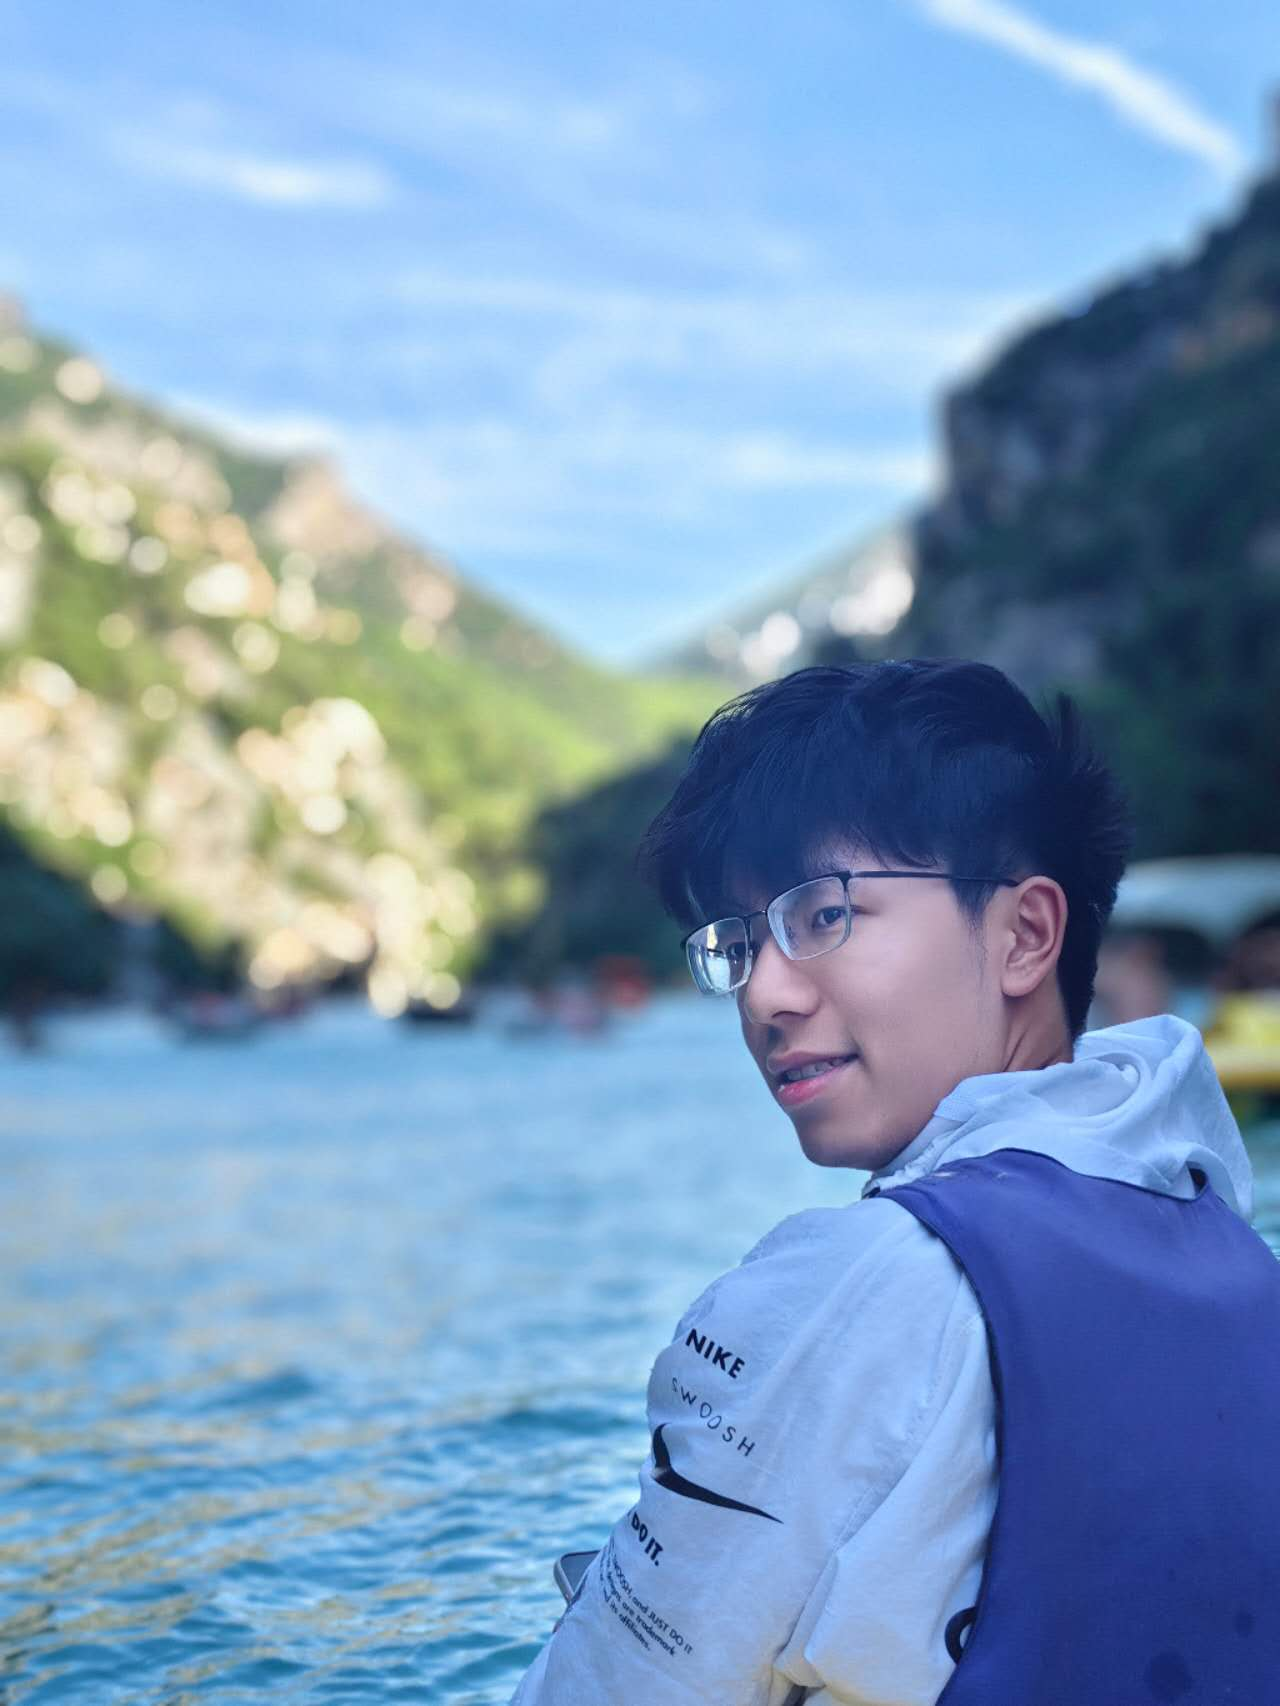
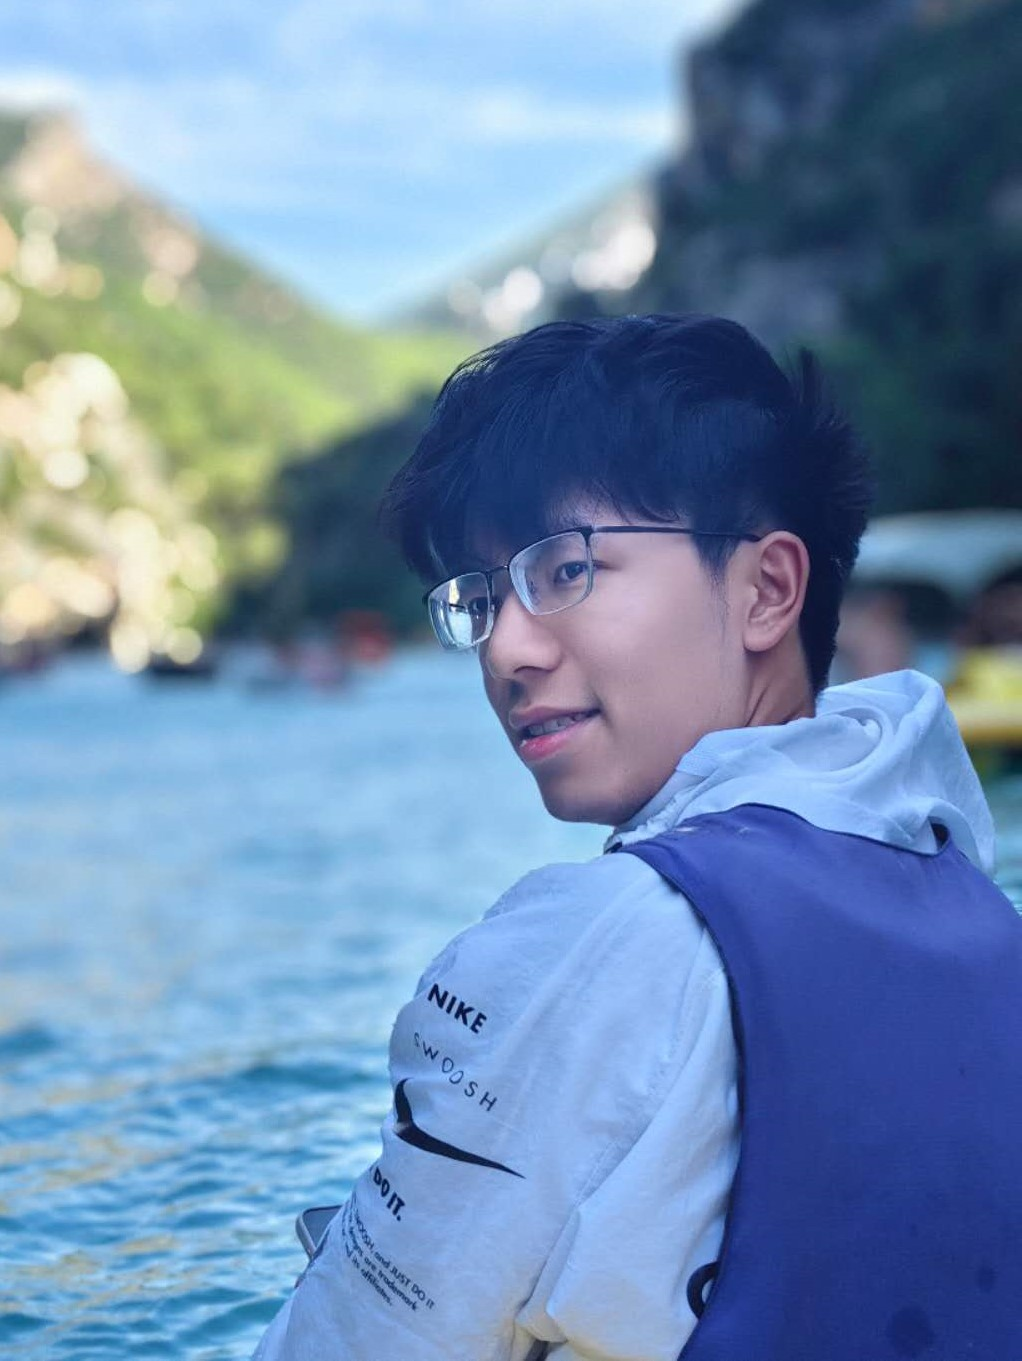
照片大小

diff --git a/style.css b/style.css
@@ -45,16 +45,24 @@ body {
   min-width: 0;
 }
 
-.portrait {
-  width: 96px;
-  height: 128px;
+.portrait-frame {
+  width: 148px;
+  height: 197px;
   flex-shrink: 0;
   align-self: center;
-  object-fit: cover;
-  object-position: center 28%;
+  margin-left: 56px;
+  overflow: hidden;
   border: 1px solid var(--border);
   border-radius: 12px;
   box-shadow: 0 6px 16px rgba(60, 78, 104, 0.06);
+}
+
+.portrait {
+  display: block;
+  width: 100%;
+  height: 100%;
+  object-fit: cover;
+  object-position: center 20%;
 }
 
 .header-links {
@@ -277,9 +285,10 @@ footer {
     padding-bottom: 36px;
   }
 
-  .portrait {
-    width: 72px;
-    height: 96px;
+  .portrait-frame {
+    width: 108px;
+    height: 144px;
+    margin-left: 28px;
     border-radius: 10px;
   }
 

diff --git a/index.html b/index.html
@@ -26,7 +26,9 @@
             </a>
           </nav>
         </div>
-        <img class="portrait" src="portrait.jpg" alt="Portrait of Yitao Wei" />
+        <div class="portrait-frame">
+          <img class="portrait" src="portrait.jpg" alt="Portrait of Yitao Wei" />
+        </div>
       </header>
 
       <section class="section" aria-labelledby="education-title">
